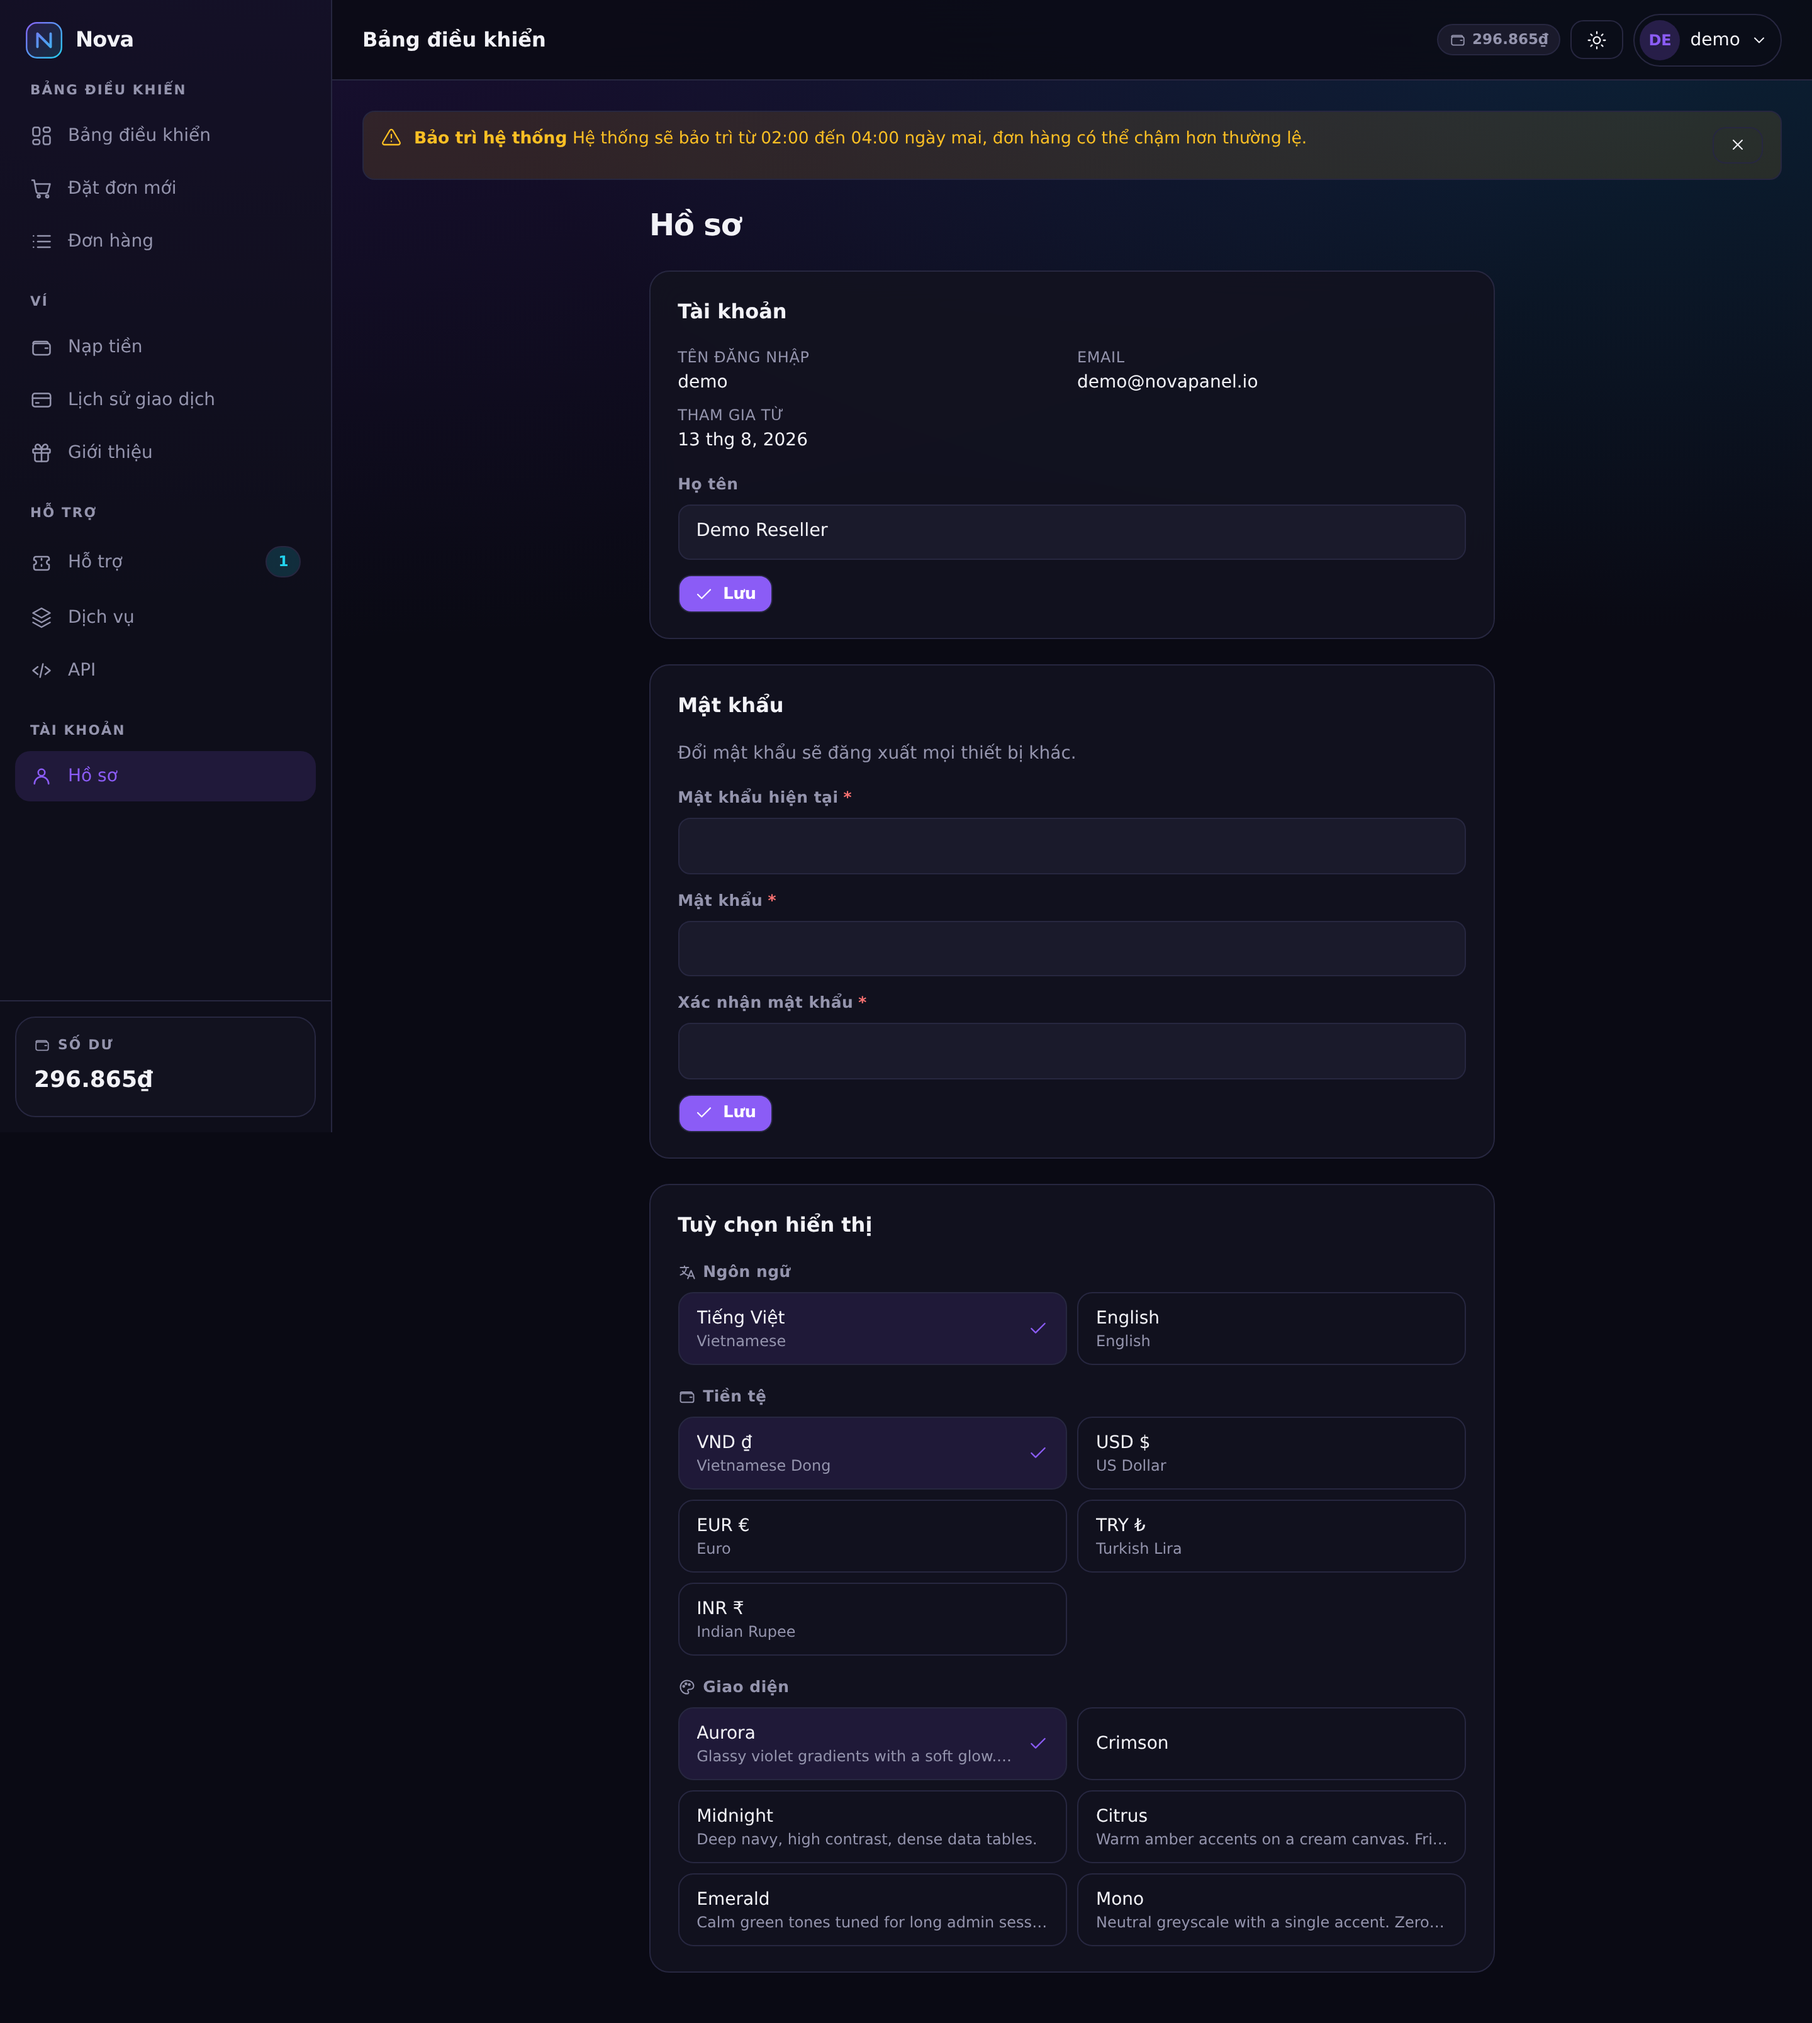
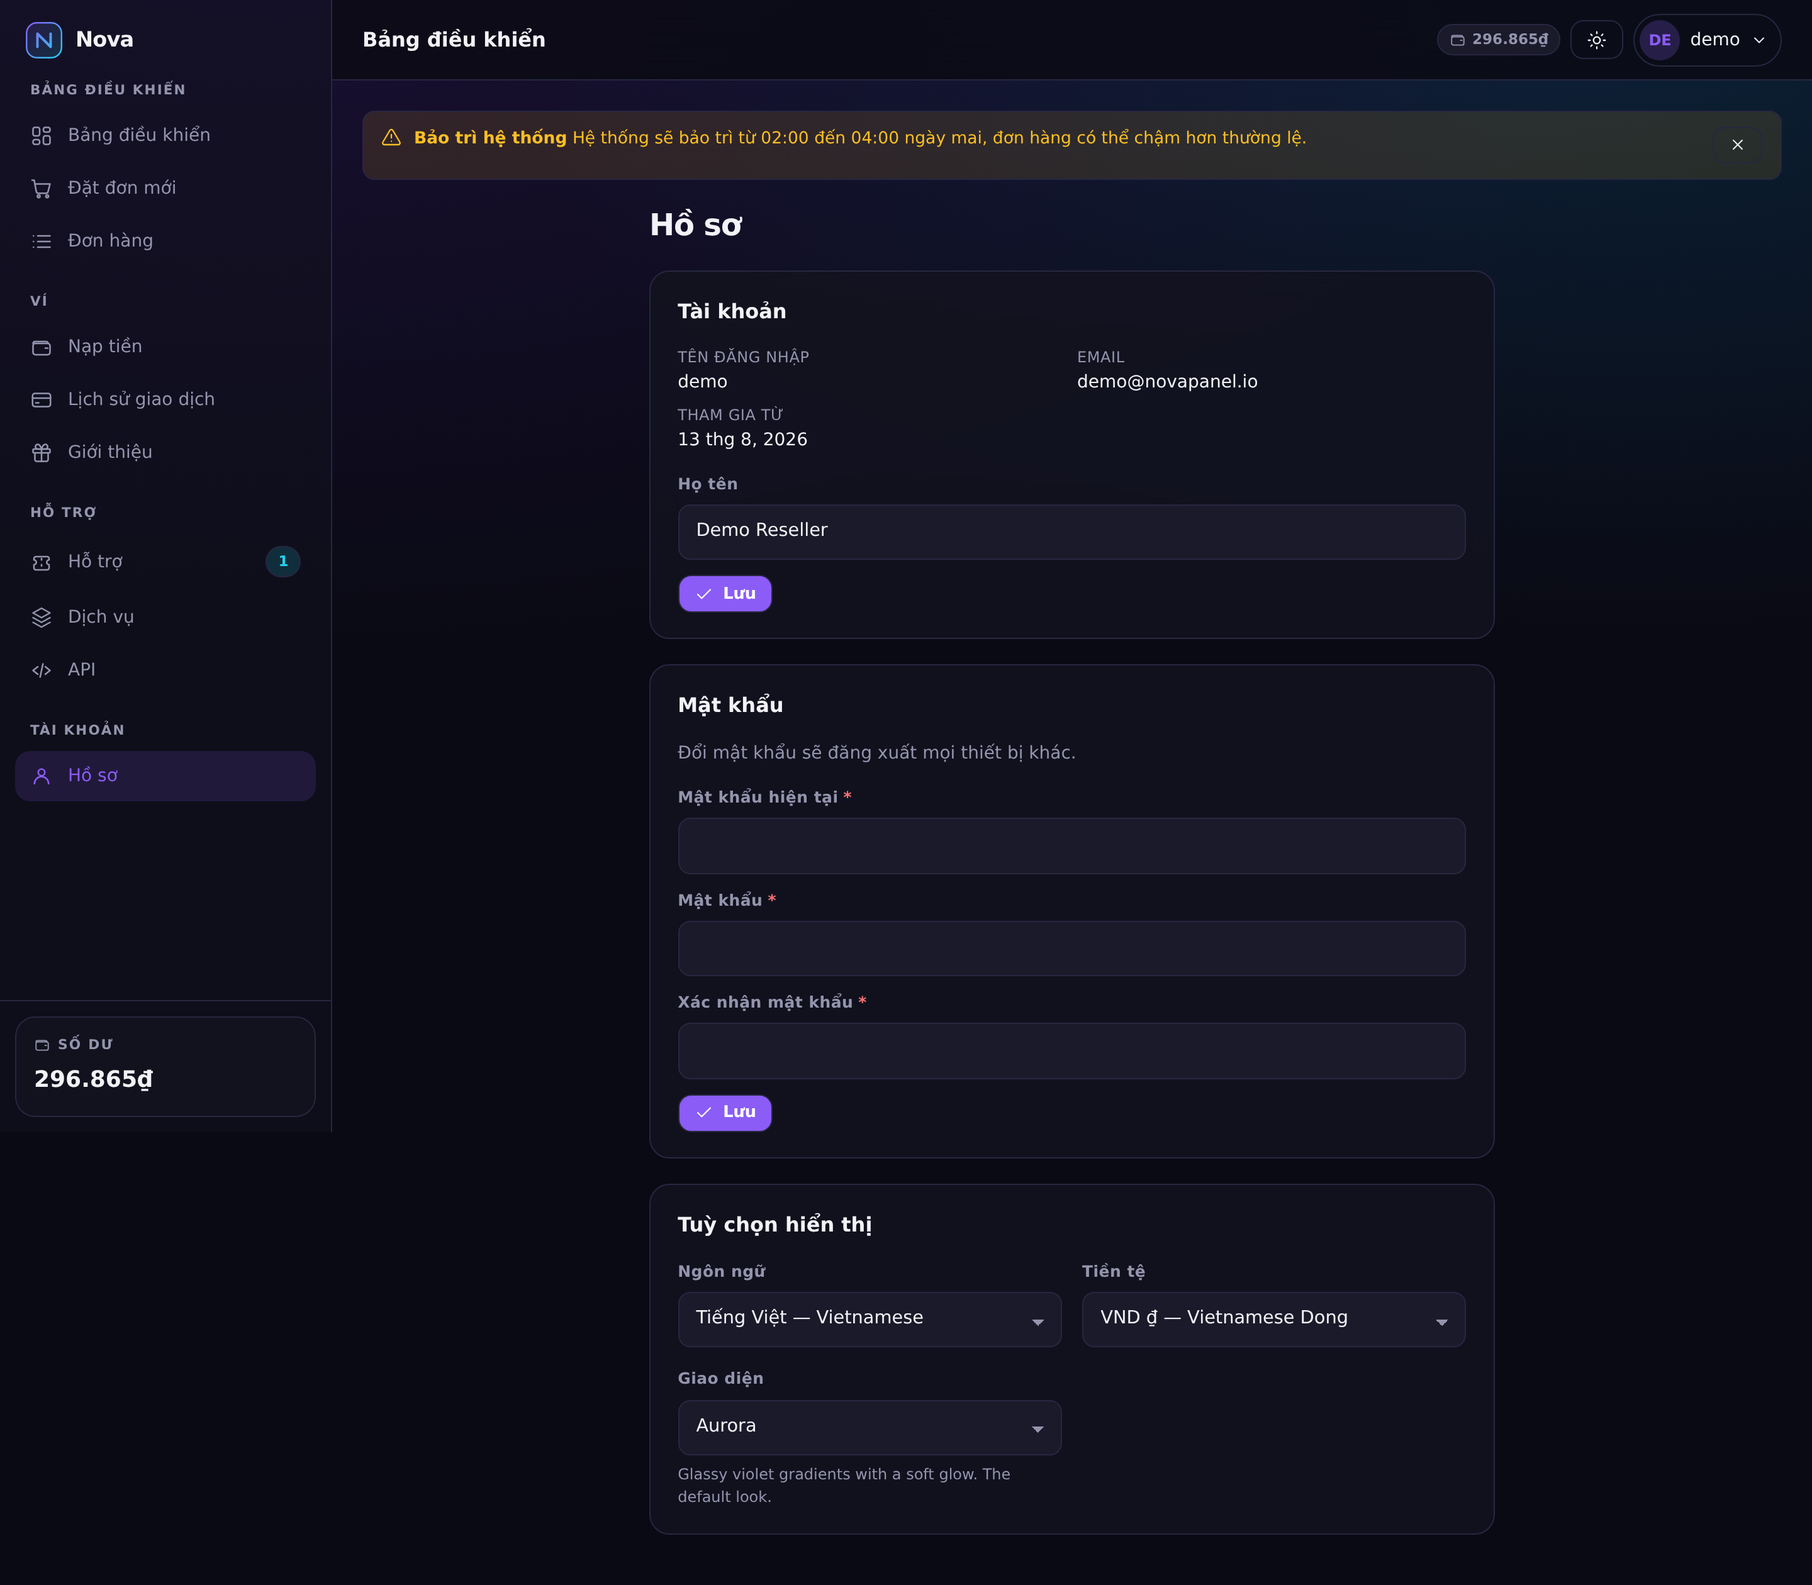
Make the display preferences dropdowns
Cards for six currencies and seven themes cost more of the page than the
choices are worth. Three selects in a two-column grid say the same thing in
a quarter of the height.

The theme description follows the selection underneath the field, since a
theme name on its own does not say what picking it does.

Verified against a running panel: choosing a theme rewrote the account row
and the description under the field followed it; choosing USD moved the
header balance to $11,65.

diff --git a/src/components/account/preferences-panel.tsx b/src/components/account/preferences-panel.tsx
@@ -2,9 +2,7 @@
 
 import { useTransition } from "react";
 import { setCurrency, setLocale, setTheme } from "@/app/actions/preferences";
-import { Icon, type IconName } from "@/components/icons";
-
-type Choice = { value: string; label: string; hint: string };
+import { Field } from "@/components/ui/field";
 
 /**
  * Language, currency and theme, chosen where the rest of the account is
@@ -42,95 +40,70 @@ export default function PreferencesPanel({
     <section className="card card-pad space-y-4">
       <h3 className="font-semibold">{labels.title}</h3>
 
-      {!anything && <p className="muted text-sm">{labels.fixed}</p>}
+      {!anything ? (
+        <p className="muted text-sm">{labels.fixed}</p>
+      ) : (
+        <div className="grid gap-4 sm:grid-cols-2">
+          {allowLocale && (
+            <Field name="locale" label={labels.language}>
+              <select
+                id="locale"
+                name="locale"
+                className="field"
+                value={locale}
+                disabled={pending}
+                onChange={(e) => start(() => setLocale(e.target.value))}
+              >
+                {languages.map((l) => (
+                  <option key={l.code} value={l.code}>
+                    {l.nativeName} — {l.name}
+                  </option>
+                ))}
+              </select>
+            </Field>
+          )}
 
-      {allowLocale && (
-        <Choices
-          icon="language"
-          label={labels.language}
-          active={locale}
-          disabled={pending}
-          choices={languages.map((l) => ({ value: l.code, label: l.nativeName, hint: l.name }))}
-          onPick={(v) => start(() => setLocale(v))}
-        />
-      )}
+          {allowCurrency && (
+            <Field name="currency" label={labels.currency}>
+              <select
+                id="currency"
+                name="currency"
+                className="field"
+                value={currency}
+                disabled={pending}
+                onChange={(e) => start(() => setCurrency(e.target.value))}
+              >
+                {currencies.map((c) => (
+                  <option key={c.code} value={c.code}>
+                    {c.code} {c.symbol} — {c.name}
+                  </option>
+                ))}
+              </select>
+            </Field>
+          )}
 
-      {allowCurrency && (
-        <Choices
-          icon="wallet"
-          label={labels.currency}
-          active={currency}
-          disabled={pending}
-          choices={currencies.map((c) => ({ value: c.code, label: `${c.code} ${c.symbol}`, hint: c.name }))}
-          onPick={(v) => start(() => setCurrency(v))}
-        />
-      )}
-
-      {allowTheme && (
-        <Choices
-          icon="palette"
-          label={labels.theme}
-          active={theme}
-          disabled={pending}
-          choices={themes.map((t) => ({ value: t.slug, label: t.name, hint: t.description }))}
-          onPick={(v) => start(() => setTheme(v))}
-        />
+          {allowTheme && (
+            // The description follows the selection: a theme name alone does
+            // not say what picking it does.
+            <Field name="theme" label={labels.theme} hint={themes.find((t) => t.slug === theme)?.description}>
+              <select
+                id="theme"
+                name="theme"
+                className="field"
+                value={theme}
+                disabled={pending}
+                onChange={(e) => start(() => setTheme(e.target.value))}
+              >
+                {themes.map((t) => (
+                  <option key={t.slug} value={t.slug}>
+                    {t.name}
+                  </option>
+                ))}
+              </select>
+            </Field>
+          )}
+        </div>
       )}
     </section>
-  );
-}
-
-/**
- * Cards rather than a select: there are only a handful of each, and the page
- * has the room to show what every option is without a click.
- */
-function Choices({
-  icon,
-  label,
-  choices,
-  active,
-  disabled,
-  onPick,
-}: {
-  icon: IconName;
-  label: string;
-  choices: Choice[];
-  active: string;
-  disabled: boolean;
-  onPick: (value: string) => void;
-}) {
-  return (
-    <div>
-      <span className="label flex items-center gap-1.5">
-        <Icon name={icon} size={14} />
-        {label}
-      </span>
-      <div className="grid gap-2 sm:grid-cols-2">
-        {choices.map((c) => (
-          <button
-            key={c.value}
-            type="button"
-            disabled={disabled}
-            aria-pressed={c.value === active}
-            onClick={() => onPick(c.value)}
-            className={`flex items-center justify-between gap-3 rounded-xl border px-3.5 py-2.5 text-left transition-colors ${
-              c.value === active
-                ? "border-[var(--primary)] bg-[color-mix(in_srgb,var(--primary)_12%,transparent)]"
-                : "border-[var(--border)] hover:bg-[var(--surface2)]"
-            }`}
-          >
-            <span className="min-w-0">
-              <span className="block truncate text-sm font-medium">{c.label}</span>
-              <span className="muted block truncate text-xs">{c.hint}</span>
-            </span>
-            {c.value === active && (
-              <span className="shrink-0 text-[var(--primary)]">
-                <Icon name="check" size={16} />
-              </span>
-            )}
-          </button>
-        ))}
-      </div>
-    </div>
   );
 }
